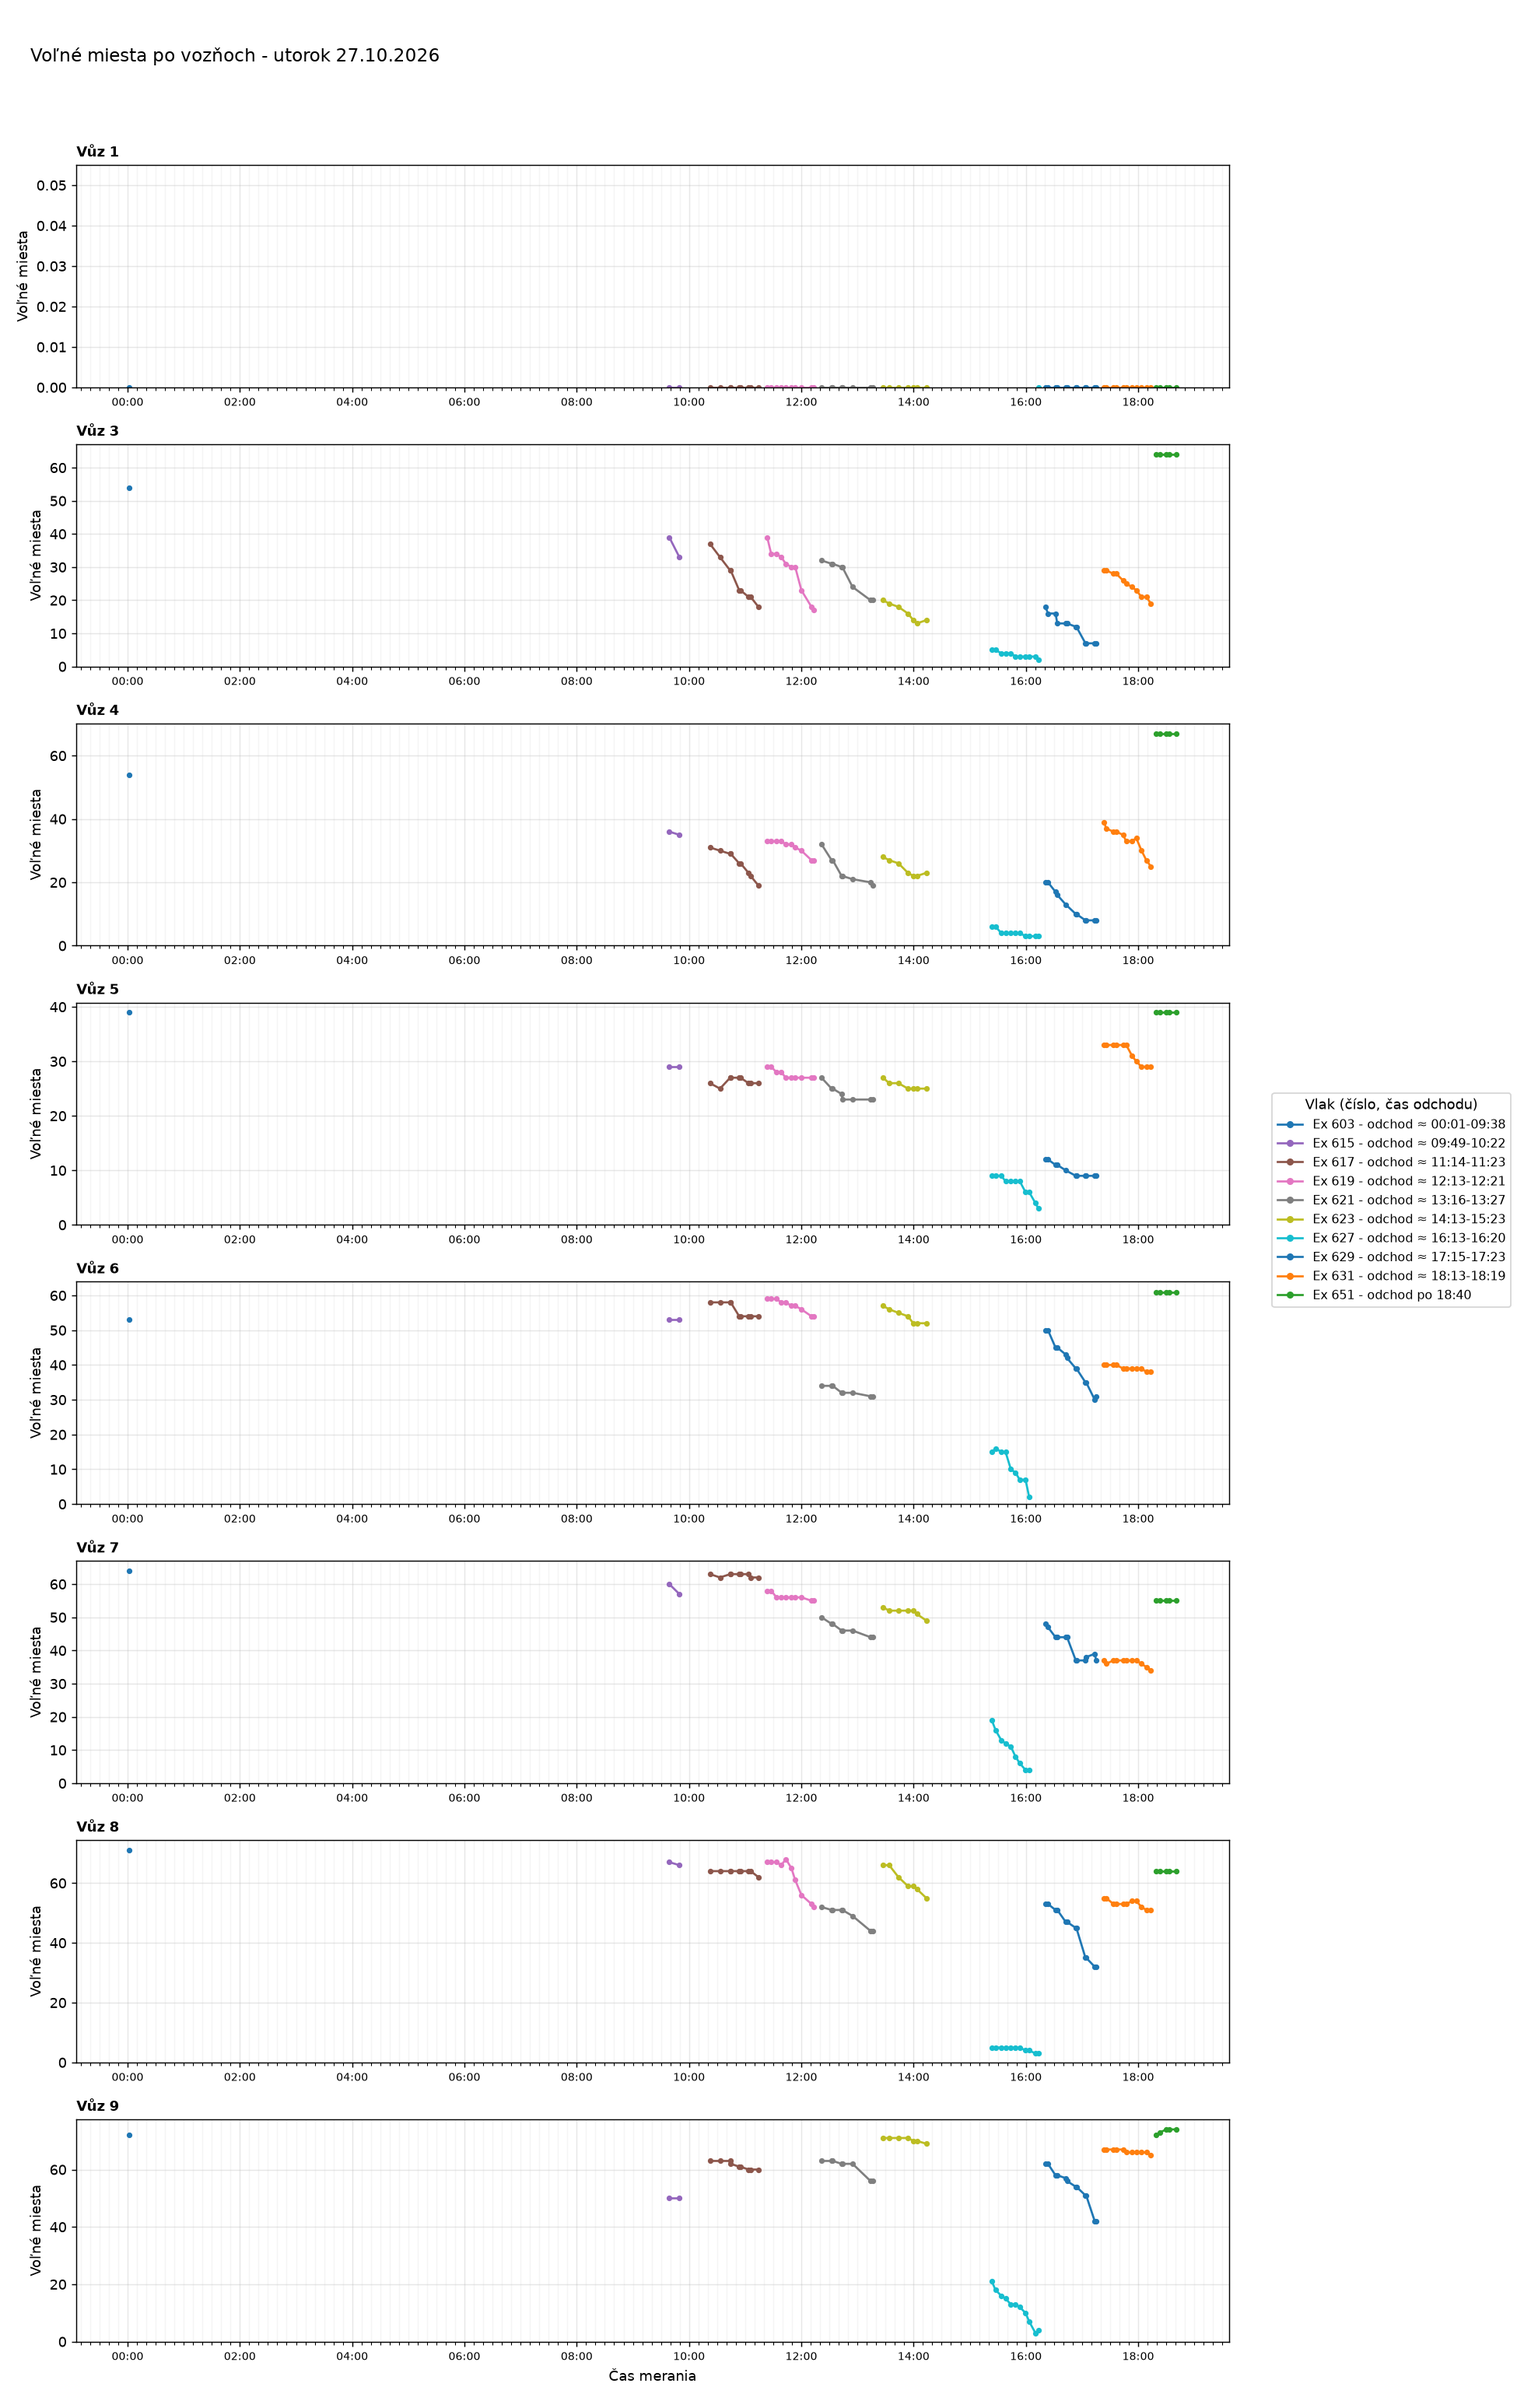
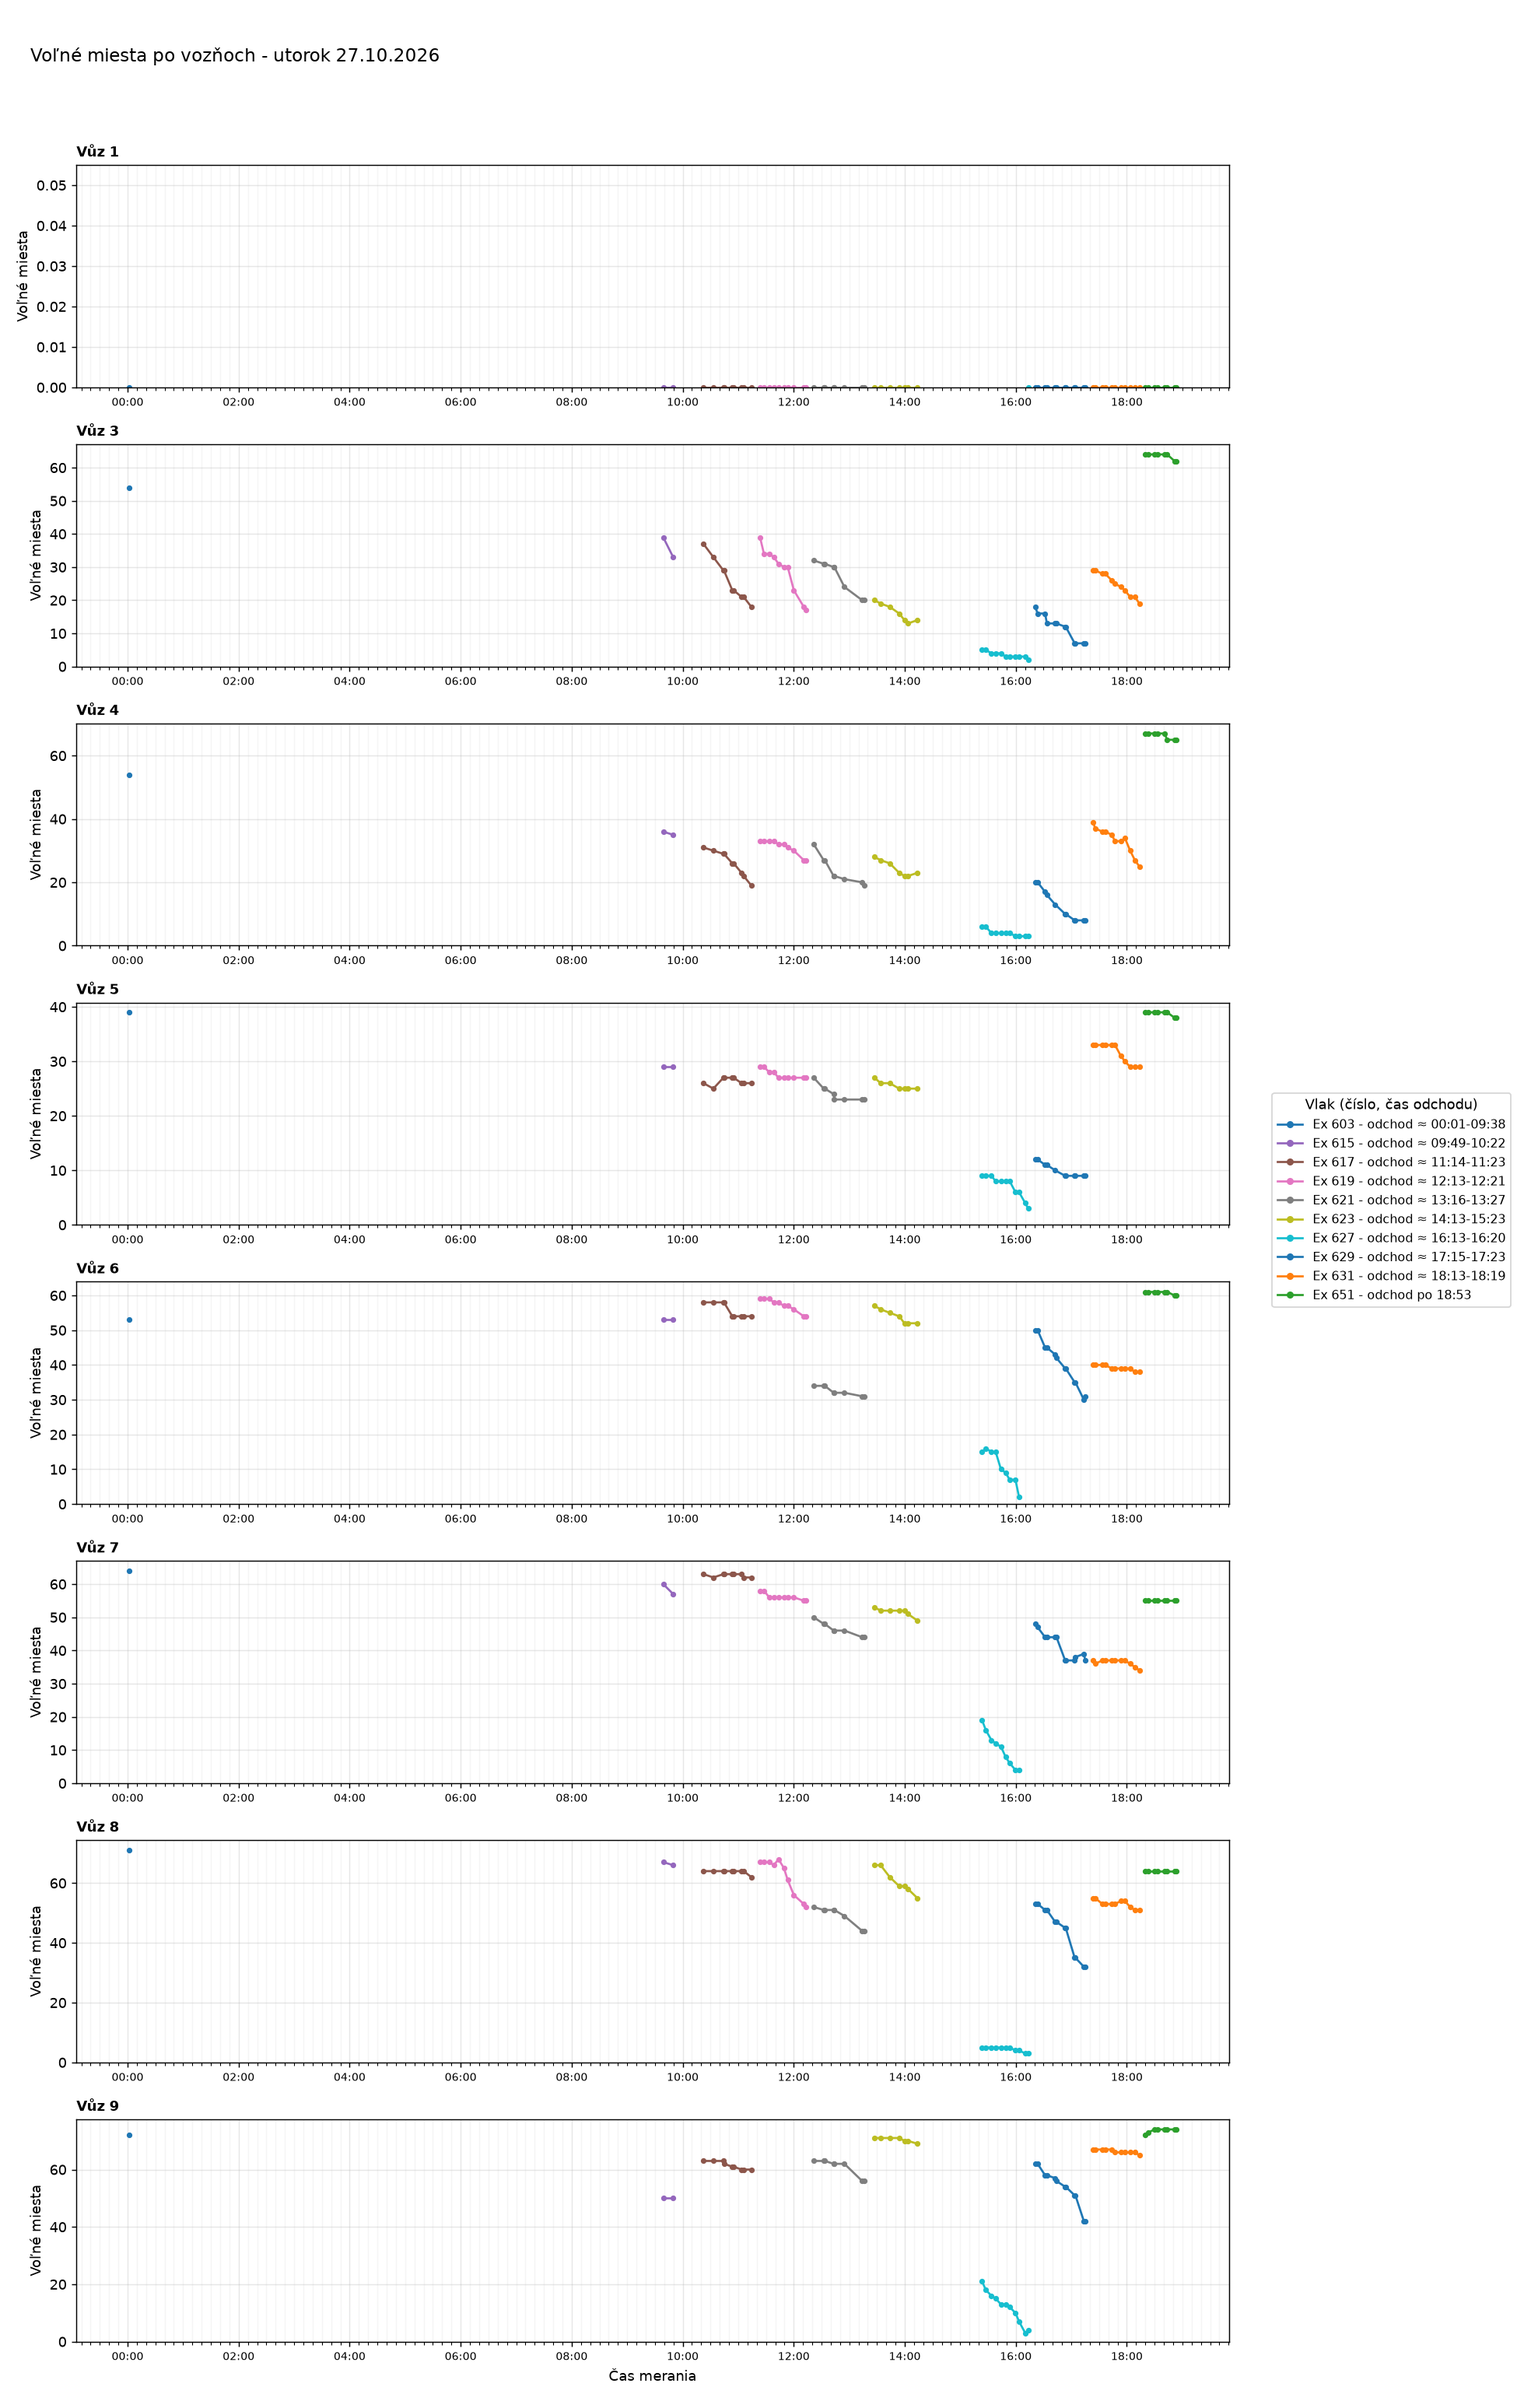
Aktualizácia grafov 2026-10-27 18:54

diff --git a/index.html b/index.html
@@ -35,7 +35,7 @@ h2.oddiel{margin:36px 0 0;font-size:1.4rem}
 <body>
 <main>
 <h1>Voľné miesta vo vlakoch</h1>
-<p class="muted">Posledné meranie: 27.10.2026 18:40 ·
+<p class="muted">Posledné meranie: 27.10.2026 18:53 ·
 <a href="data/obsadenost_data.csv">stiahnuť dáta (CSV)</a></p>
 <nav class="nav"><a href="#suhrn">Súhrn</a><a href="#statistiky">Štatistiky</a><a href="#historia">História grafov</a></nav>
 
@@ -44,7 +44,7 @@ h2.oddiel{margin:36px 0 0;font-size:1.4rem}
 <div class="tablewrap"><table>
 <thead><tr><th>Deň</th><th>Meraní</th><th>Vlakov</th><th>Čas meraní</th></tr></thead>
 <tbody>
-<tr><td><a href="#d2026-10-27">utorok 27.10.2026</a></td><td>76</td><td>10</td><td>00:01-18:40</td></tr>
+<tr><td><a href="#d2026-10-27">utorok 27.10.2026</a></td><td>79</td><td>10</td><td>00:01-18:53</td></tr>
 <tr><td><a href="#d2026-10-26">pondelok 26.10.2026</a></td><td>88</td><td>14</td><td>00:06-23:50</td></tr>
 <tr><td><a href="#d2026-10-25">nedeľa 25.10.2026</a></td><td>101</td><td>15</td><td>00:01-23:56</td></tr>
 <tr><td><a href="#d2026-10-24">sobota 24.10.2026</a></td><td>98</td><td>14</td><td>00:10-23:50</td></tr>
